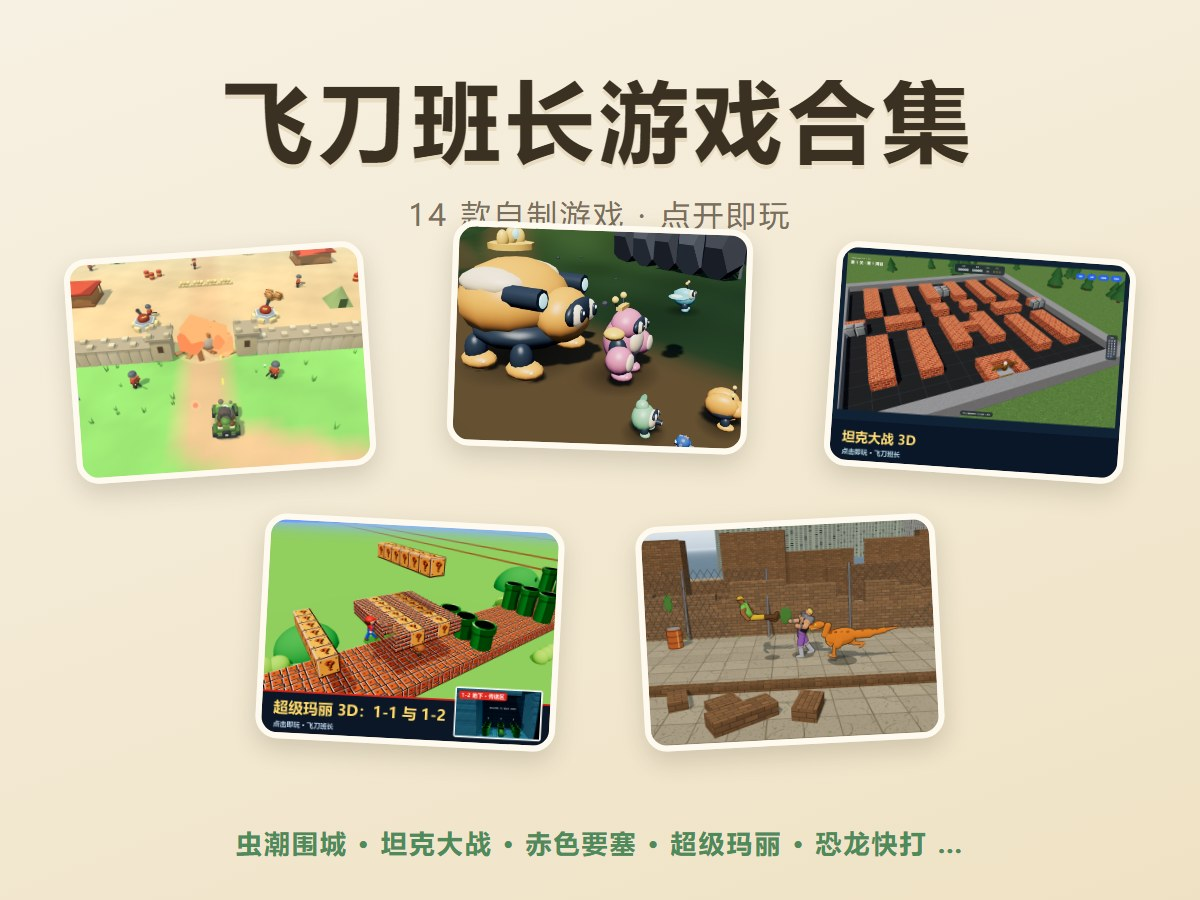
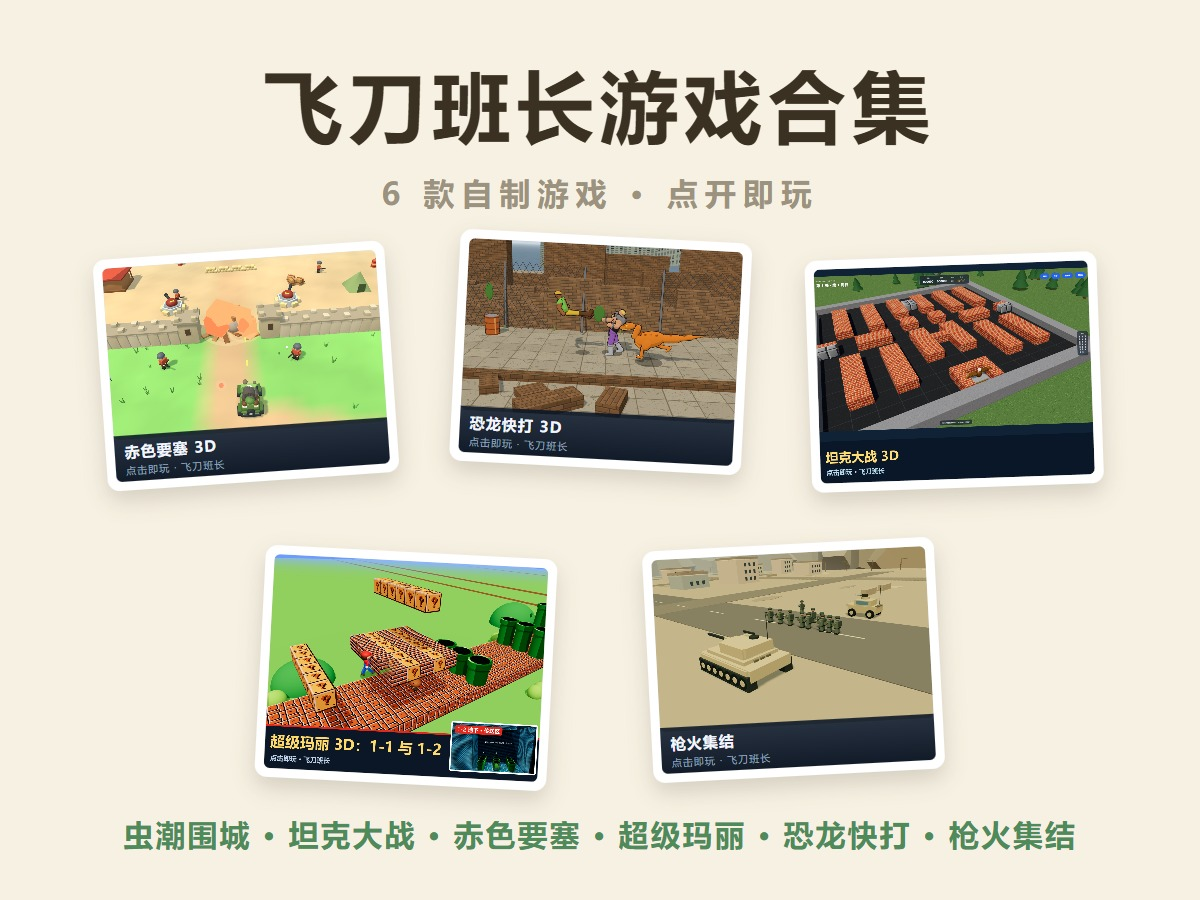
摘掉已下架休闲小游戏的死链入口：网站益智休闲分组与 Toy 合集 8 张卡片
8 款休闲小游戏的 Toy 已在 10-13 后下架，网站卡片和合集点进去都是 404。
合集同步去掉空的「经典休闲」筛选，封面改为与当前 6 款一致的「6 款自制游戏」。
网页版文件与 game-projects 源码保留，只断导航，不删成果。

diff --git a/game-projects/feidao-gamehub/package/index.html b/game-projects/feidao-gamehub/package/index.html
@@ -122,33 +122,9 @@ const GAMES = [
     desc: '3D 视角重现顶蘑菇，1-1 至 1-4 可玩，从地面、地下、树冠一路闯到库巴城堡。' },
   { slug: 'feidao-cadillacs-3d', title: '恐龙快打 3D', cat: '3d', tags: ['3D重制', '三关卡'], video: 'BV18XHW66E55',
     poster: './assets/feidao-cadillacs-3d.png',
-    desc: '横版闯关打架的经典，第一至三关 3D 重制版。' },
-  { slug: 'feidao-worms', title: '百战天虫', cat: 'str', tags: ['回合制', '炮击'],
-    poster: './assets/feidao-worms.png',
-    desc: '回合制虫虫炮击对轰，算好抛物线一击制胜。' },
-  { slug: 'feidao-sheepstack', title: '叠叠乐', cat: 'cas', tags: ['休闲', '手稳'],
-    poster: './assets/feidao-sheepstack.png',
-    desc: '把羊羊叠得越高越好，手一抖就塌。' },
-  { slug: 'feidao-brick-breaker', title: '打砖块', cat: 'cas', tags: ['休闲', '经典'],
-    poster: './assets/feidao-brick-breaker.png',
-    desc: '弹球打砖块，清空一屏再来一屏。' },
-  { slug: 'feidao-frog-zuma', title: '青蛙祖玛', cat: 'cas', tags: ['消除', '经典'],
-    poster: './assets/feidao-frog-zuma.png',
-    desc: '吐珠凑三消，别让彩珠滚进洞里。' },
-  { slug: 'feidao-bubble-dragon', title: '泡泡龙', cat: 'cas', tags: ['消除', '经典'],
-    poster: './assets/feidao-bubble-dragon.png',
-    desc: '经典泡泡消除，一发入魂。' },
-  { slug: 'feidao-fly-bird', title: '飞行鸟', cat: 'cas', tags: ['休闲', '手速'],
-    poster: './assets/feidao-fly-bird.png',
-    desc: '扇翅膀穿过管道，手一抖就摔。' },
-  { slug: 'feidao-lianliankan', title: '连连看', cat: 'cas', tags: ['消除', '经典'],
-    poster: './assets/feidao-lianliankan.png',
-    desc: '两张相同的连一线，眼疾手快全消光。' },
-  { slug: 'feidao-gemswap', title: '宝石迷阵', cat: 'cas', tags: ['三消', '经典'],
-    poster: './assets/feidao-gemswap.png',
-    desc: '交换宝石凑三连消，连锁反应最爽。' }
+    desc: '横版闯关打架的经典，第一至三关 3D 重制版。' }
 ];
-const CATS = [ ['all', '全部'], ['3d', '3D 重制'], ['act', '动作射击'], ['cas', '经典休闲'], ['str', '策略塔防'] ];
+const CATS = [ ['all', '全部'], ['3d', '3D 重制'], ['act', '动作射击'], ['str', '策略塔防'] ];
 
 const grid = document.getElementById('grid');
 const chips = document.getElementById('chips');

diff --git a/public/js/config.js b/public/js/config.js
@@ -180,19 +180,6 @@ const gamesConfig = {
                 { titleKey: 'tools.tank3d.title', subtitleKey: 'games.content.tank', tagKeys: ['games.tags.threeD', 'games.tags.demo'], firstProducedAt: '2026-09-29', toyUrl: 'https://www.bilibili.com/toy/feidao-tank-3d/index.html', url: 'html/game/tank-3d/index.html?v=2', thumb: 'assets/game/thumbs/tank-3d.jpg?v=2' },
                 { titleKey: 'tools.mario3d.title', subtitleKey: 'games.content.mario', tagKeys: ['games.tags.threeD', 'games.tags.demo'], firstProducedAt: '2026-09-28', url: 'html/game/mario-3d/index.html', thumb: 'assets/game/thumbs/mario-3d.jpg?v=4', toyUrl: 'https://www.bilibili.com/toy/feidao-mario-3d/index.html' }
             ]
-        },
-        {
-            titleKey: 'games.groups.puzzle',
-            items: [
-                { titleKey: 'tools.gemswap.title', toyUrl: 'https://www.bilibili.com/toy/feidao-gemswap/index.html', url: 'html/game/gemswap.html?v=10' },
-                { titleKey: 'tools.lianliankan.title', toyUrl: 'https://www.bilibili.com/toy/feidao-lianliankan/index.html', url: 'html/game/lianliankan.html' },
-                { titleKey: 'tools.bubbleDragon.title', toyUrl: 'https://www.bilibili.com/toy/feidao-bubble-dragon/index.html', url: 'html/game/bubble_dragon.html?v=6' },
-                { titleKey: 'tools.flyBird.title', url: 'html/game/fly_bird.html', toyUrl: 'https://www.bilibili.com/toy/feidao-fly-bird/index.html' },
-                { titleKey: 'tools.frogZuma.title', toyUrl: 'https://www.bilibili.com/toy/feidao-frog-zuma/index.html', url: 'html/game/frog_zuma.html?v=6' },
-                { titleKey: 'tools.worms.title', toyUrl: 'https://www.bilibili.com/toy/feidao-worms/index.html', url: 'html/game/worms.html?v=7' },
-                { titleKey: 'tools.brickBreaker.title', toyUrl: 'https://www.bilibili.com/toy/feidao-brick-breaker/index.html', url: 'html/game/brick_breaker.html?v=7' },
-                { titleKey: 'tools.sheepstack.title', toyUrl: 'https://www.bilibili.com/toy/feidao-sheepstack/index.html', url: 'html/game/sheepstack.html?v=10' }
-            ]
         }
     ]
 };
